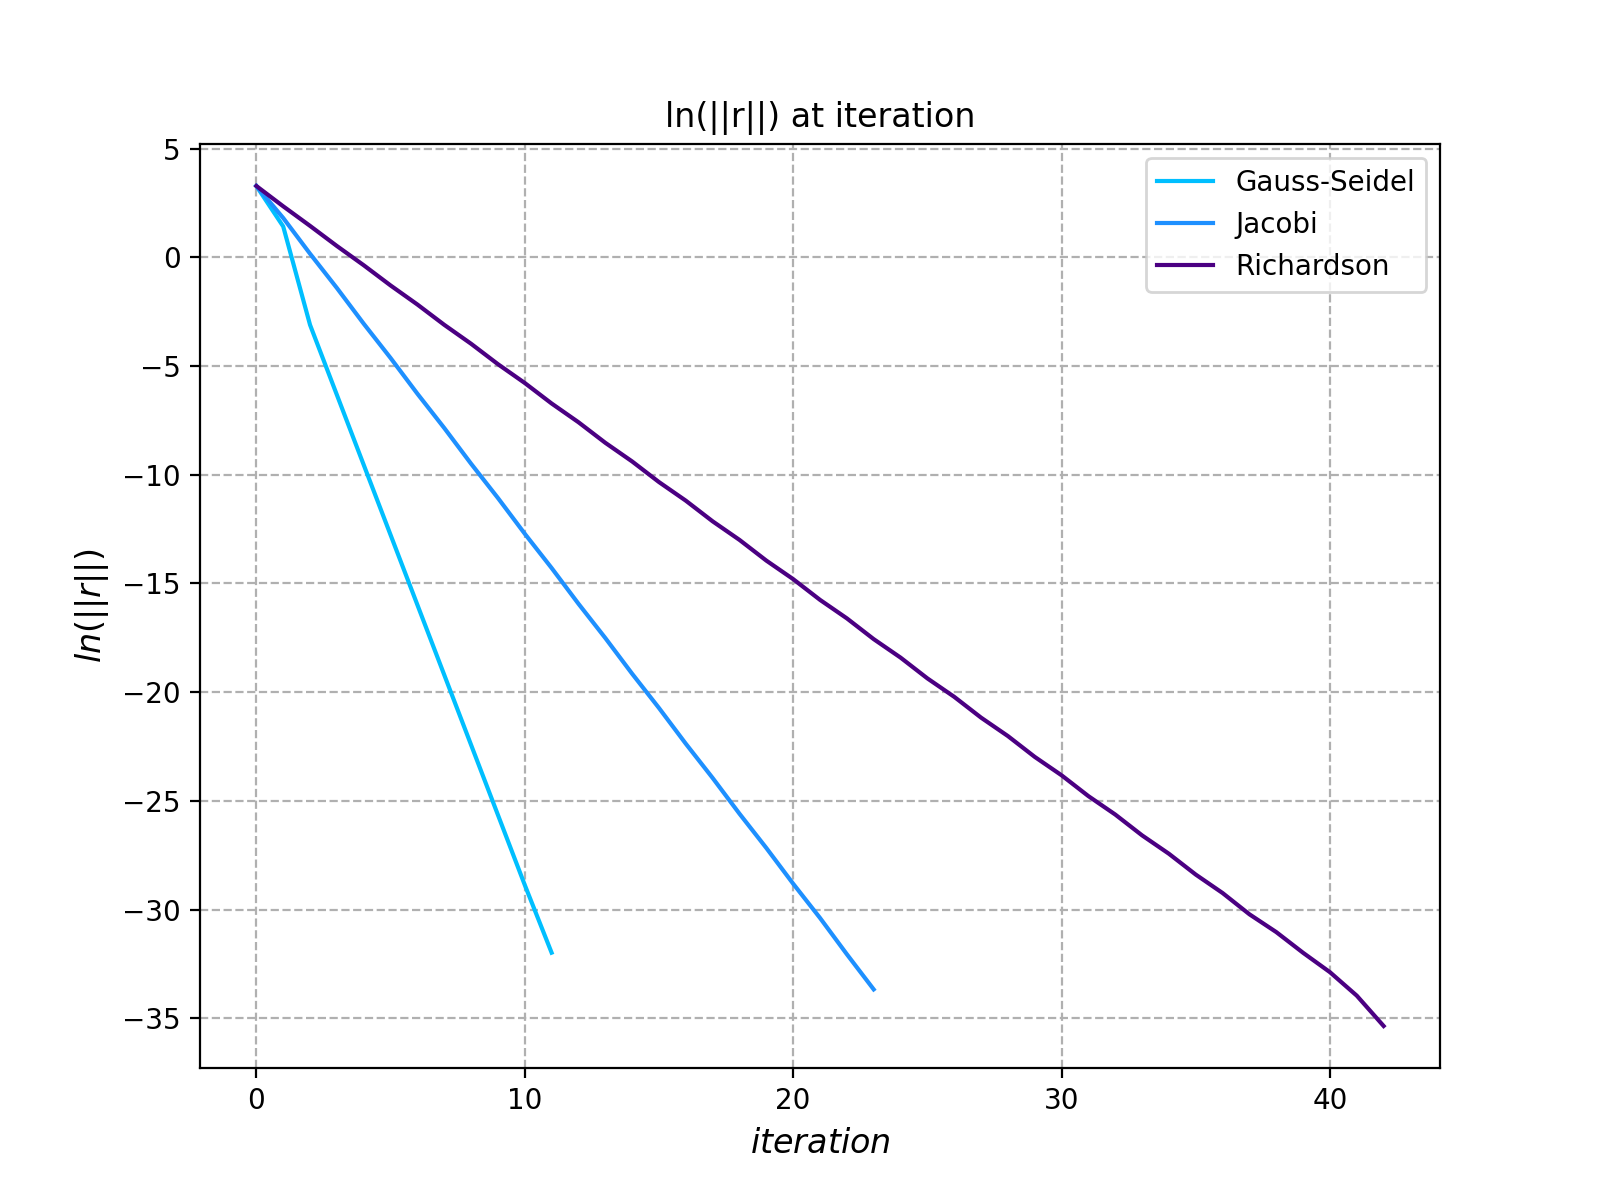
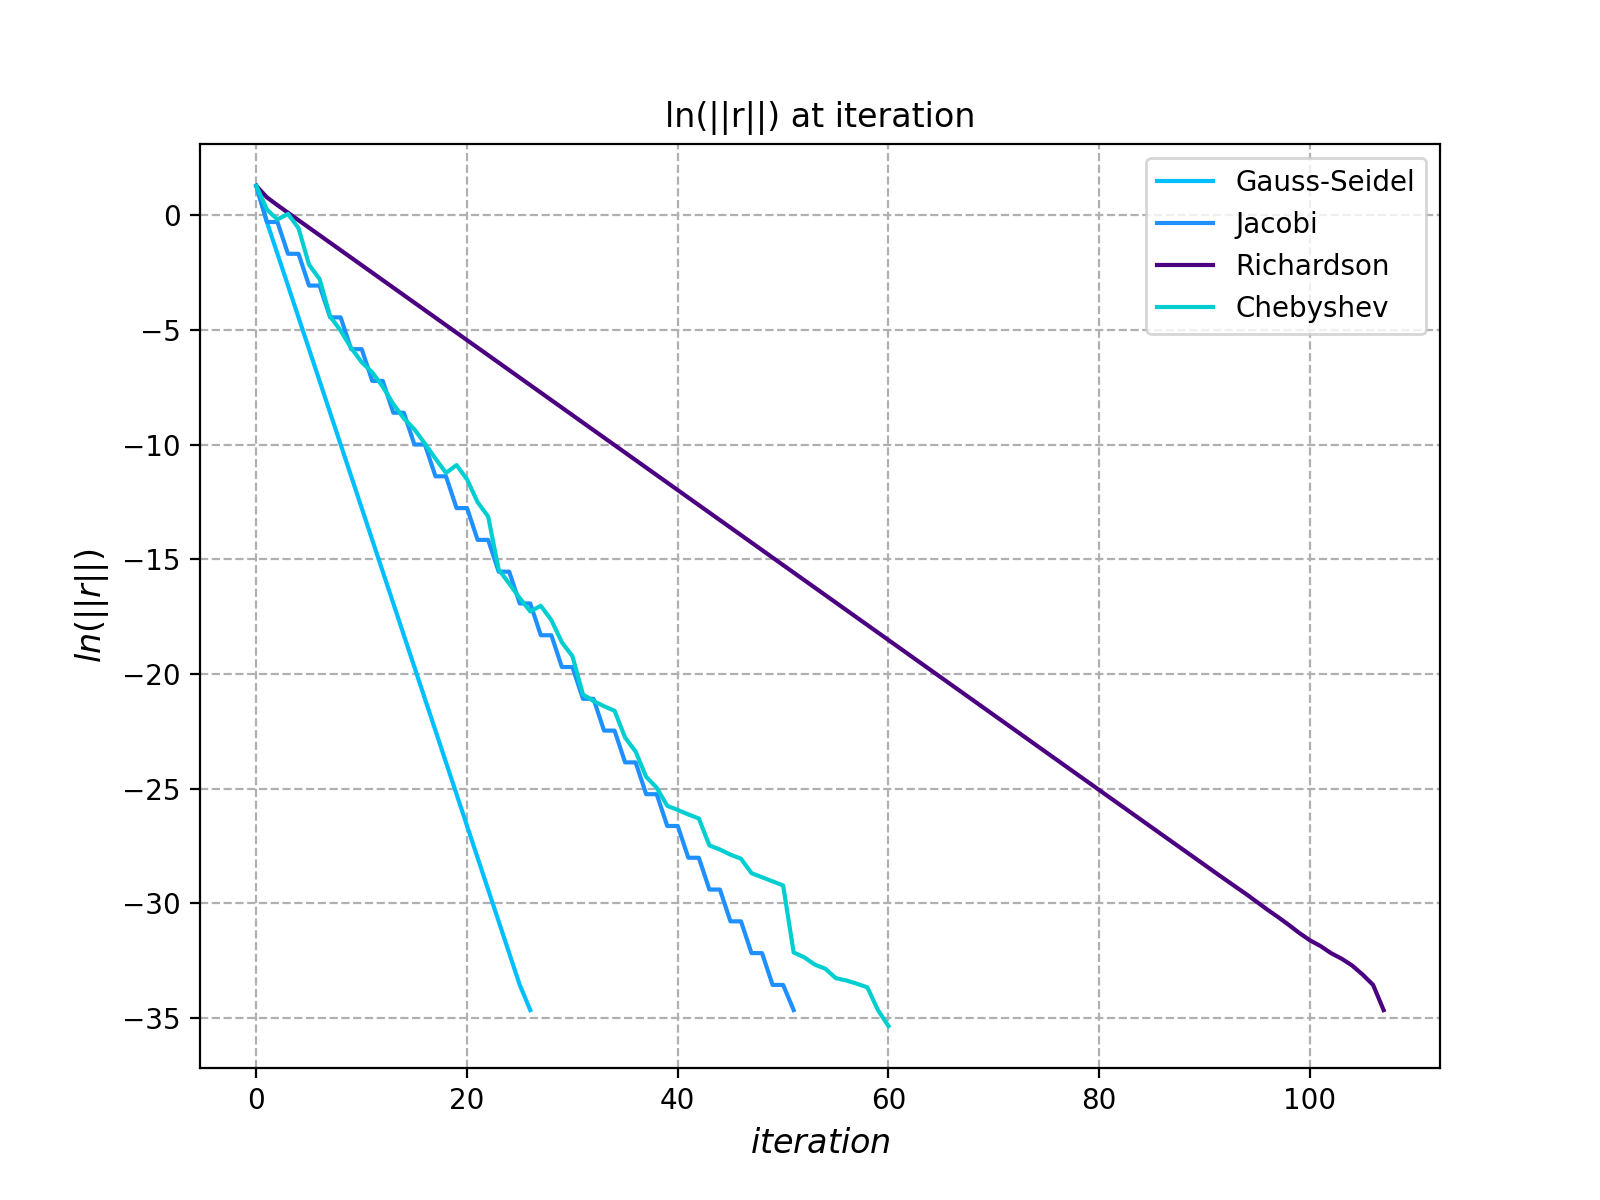
chebyshev vizualization added

diff --git a/fun/Simple_iterative_methods/measure.cpp b/fun/Simple_iterative_methods/measure.cpp
@@ -1,6 +1,7 @@
 #include "../../src/matrix/CSR.h"
 #include <chrono>
 #include <cmath>
+#include <numbers>
 #include <fstream>
 
 
@@ -21,7 +22,7 @@ void gauss_seidel(const CSR<double>& csr, const std::vector<double>& b,const std
     while (rr > percision){
         for (std::vector<double>::size_type i = 0; i < b.size(); i++){
             storage = 0;
-            for (int j = csr.get_rows()[i]; j < csr.get_rows()[i+1]; j++){
+            for (unsigned long int j = csr.get_rows()[i]; j < csr.get_rows()[i+1]; j++){
                 if (csr.get_cols()[j] != i){
                     storage += csr.get_values()[j] * x[csr.get_cols()[j]];
                 }
@@ -59,7 +60,7 @@ void jacobi(const CSR<double>& csr, const std::vector<double>& b, const std::vec
     while (rr > percision){
         for (std::vector<double>::size_type i = 0; i < b.size(); i++){
             storage = 0;
-            for (int j = csr.get_rows()[i]; j < csr.get_rows()[i+1]; j++){
+            for (unsigned long int j = csr.get_rows()[i]; j < csr.get_rows()[i+1]; j++){
                 if (csr.get_cols()[j] != i){
                     storage += csr.get_values()[j] * x[csr.get_cols()[j]];
                 }
@@ -107,15 +108,105 @@ void richardson(const CSR<double>& csr, const std::vector<double>& b, const std:
     counter.close();
 }
 
-int main(){
-    std::vector<double> val{10, 4, 20, 1, 1, 4, 20, 1, 2, 10};
-    std::vector<int> col{0, 2, 1, 2, 0, 1, 2, 3, 2, 3};
-    std::vector<int> row{0, 2, 4, 8, 10};
-    CSR<double> csr(val, col, row);
-    std::vector<double> b{8, 12, 4, 2}, x0{1, 1, 1, 1};
-    const double percision = 1e-15;
-    const double t = 0.063147;
+double max_eigenvalue(const CSR<double>& csr, const unsigned long int size, const double percision){
+    std::vector<double> r(size, 1);
+    double mu = 0, mu1 = 0, delta = 1e10, rr = 0;
+    rr = std::sqrt(r * r);
+    mu = (r * (csr * r)) / (rr * rr);
+    while (delta > percision){
+        r = csr * r;
+        rr = std::sqrt(r * r);
+        r = r * (1 / rr);
+        mu1 = (r * (csr * r)) / (r * r);
+        delta = std::abs(mu1 - mu);
+        mu = mu1;
+    }
+    return mu;
+}
 
+std::vector<unsigned long int> redecorate(unsigned long int r){
+    unsigned long int n = 2 << r;
+    std::vector<unsigned long int> index(n, 0);
+    index[2 << (r - 1)] = 1;
+    unsigned long int step = 0;
+
+    for (long unsigned int j = 2; j <= r; j++) {
+        step = 2 << (r - j);
+        for (unsigned long int k = 0; k < n; k += 2 * step) {
+            index[k + step] = (2 << j) - index[k] - 1;
+        }
+    }
+
+    return index;
+}
+
+const double pi = 3.14159265358979323846;
+std::vector<double> find_tau(const unsigned long int r, const double lambda_max, const double lambda_min){
+    unsigned long int n = 2 << r;
+    std::vector<double> roots(n, 0);
+    const double cos_n = std::cos(pi / static_cast<double>(n));
+    const double sin_n = std::sin(pi / static_cast<double>(n));
+    const double cos_2n = std::cos(pi / static_cast<double>(2 * n));
+    double sin_i = std::sin(pi / static_cast<double>(2 * n));
+    roots[0] = cos_2n;
+    for(unsigned long int i = 1; i < n / 2 + 1; i++){
+        roots[i] = roots[i - 1] * cos_n - sin_i * sin_n;
+        sin_i = sin_i * cos_n + roots[i - 1] * sin_n;
+        roots[n - i] = -roots[i - 1];
+        roots[i - 1] = (lambda_min + lambda_max) / 2 + ((lambda_max - lambda_min) / 2) * roots[i - 1];
+        roots[n - i] = (lambda_min + lambda_max) / 2 + ((lambda_max - lambda_min) / 2) * roots[n - i];
+    }
+    for (auto& it : roots){
+        it = 1 / it;
+    }
+    return roots;
+}
+
+void chebyshev(const CSR<double>& csr, const std::vector<double>& b, const std::vector<double>& x0, const double lambda_max, const double lambda_min, unsigned long int r_, const double percision){
+    std::ofstream timer, counter;
+    timer.open("chebyshev_timer.txt");
+    counter.open("chebyshev_counter.txt");
+    std::chrono::high_resolution_clock::time_point begin, end;
+    
+    std::vector<double> x = x0;
+    std::vector<double> r(b.size());
+    r =  csr * x - b;
+    double rr = std::sqrt(r * r);
+
+    begin = std::chrono::high_resolution_clock::now();
+    std::vector<unsigned long int> index = redecorate(r_);
+    std::vector<double> tau = find_tau(r_, lambda_max, lambda_min);
+
+    while (rr > percision){
+        for (auto& it : index) {
+            r = csr * x - b;
+            x = x - tau[it] * r;
+            rr = std::sqrt(r * r);
+
+            end = std::chrono::high_resolution_clock::now();
+            timer << std::chrono::duration_cast<std::chrono::nanoseconds>(end-begin).count() << std::endl;
+            counter << rr << std::endl;
+        }
+    }
+
+    timer.close();
+    counter.close();
+}
+
+int main(){
+    std::vector<double> val{1, 1, 2, 1, 4};
+    std::vector<unsigned long int> col{0, 2, 1, 0, 2};
+    std::vector<unsigned long int> row{0, 2, 3, 5};
+    CSR<double> csr(val, col, row);
+    std::vector<double> b{2, 4, 8}, x0{1, 1, 1};
+    double percision = 1e-15, lambda_min, lambda_max;
+    long unsigned int r_= 7;
+
+    lambda_min = 0.69722436226800535344038936626475;
+    lambda_max = max_eigenvalue(csr, r_, percision);
+    const double t = 2 / (lambda_min + lambda_max);
+
+    chebyshev(csr, b, x0, lambda_max, lambda_min, r_, percision);
     jacobi(csr, b, x0, percision);
     gauss_seidel(csr, b, x0, percision);
     richardson(csr, b, x0, percision, t);
